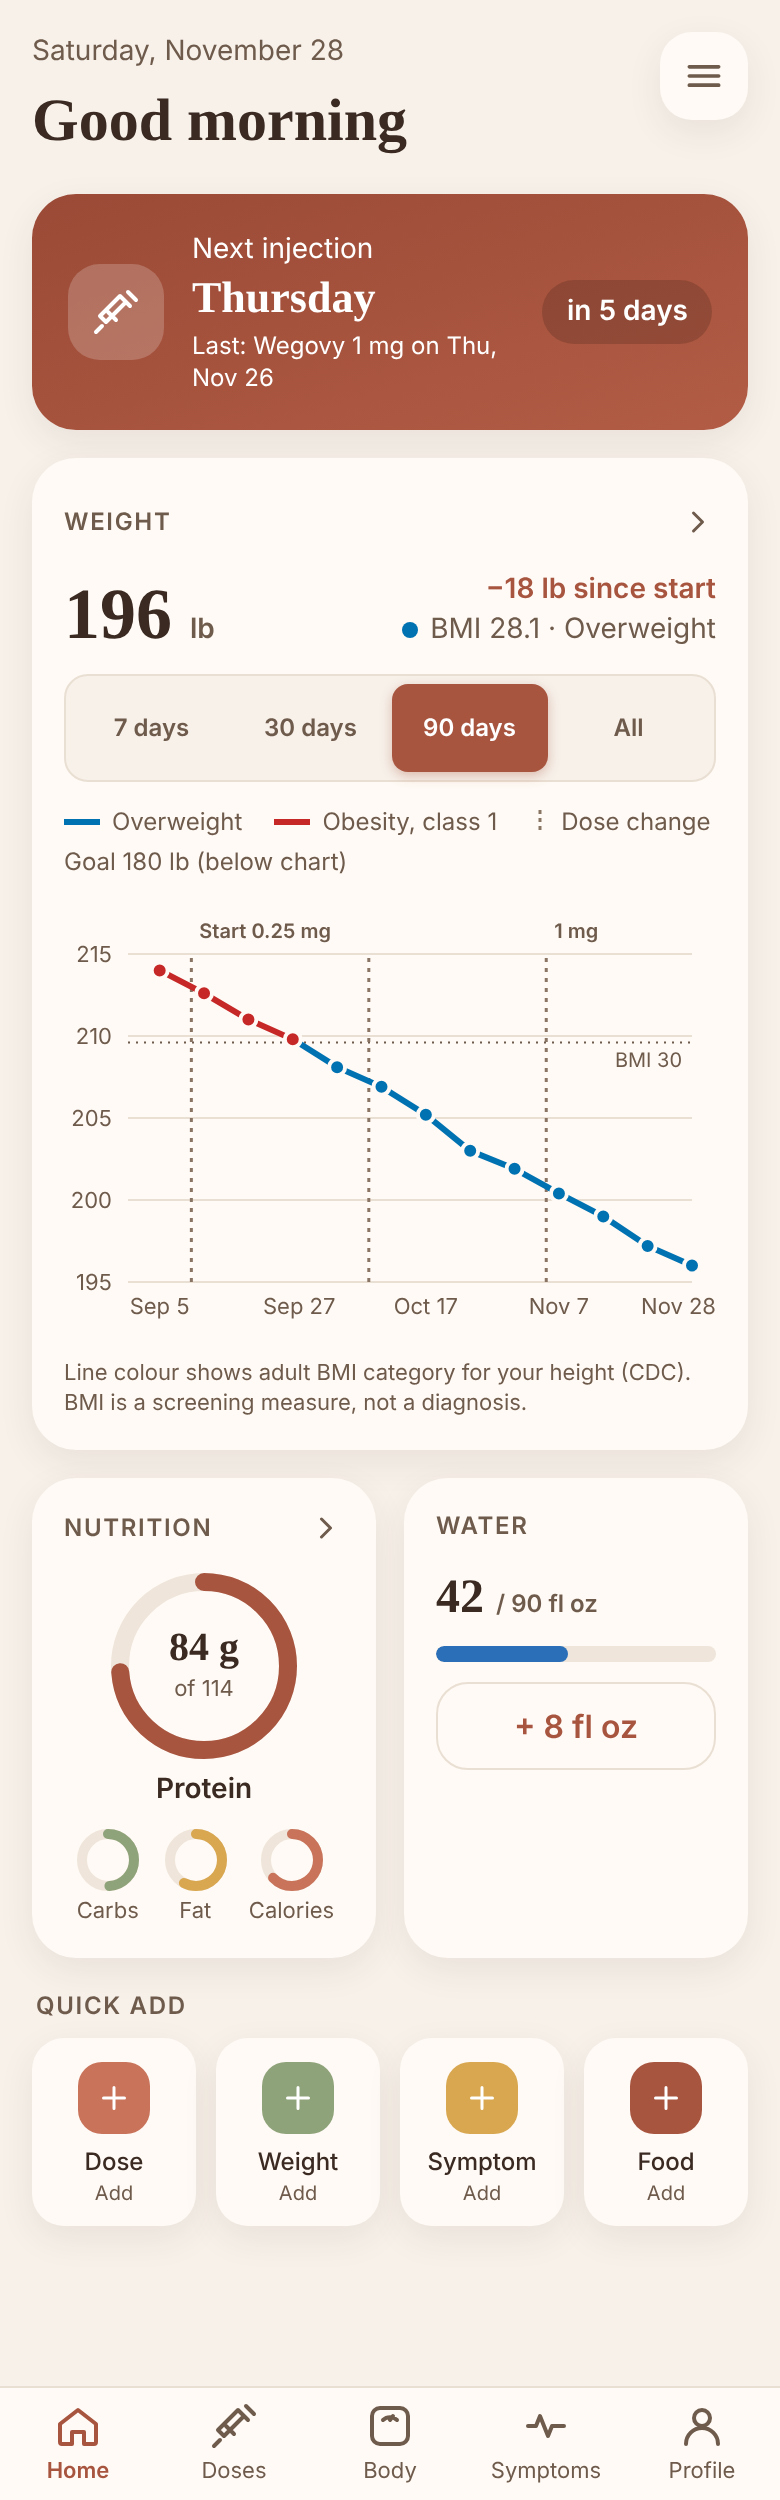
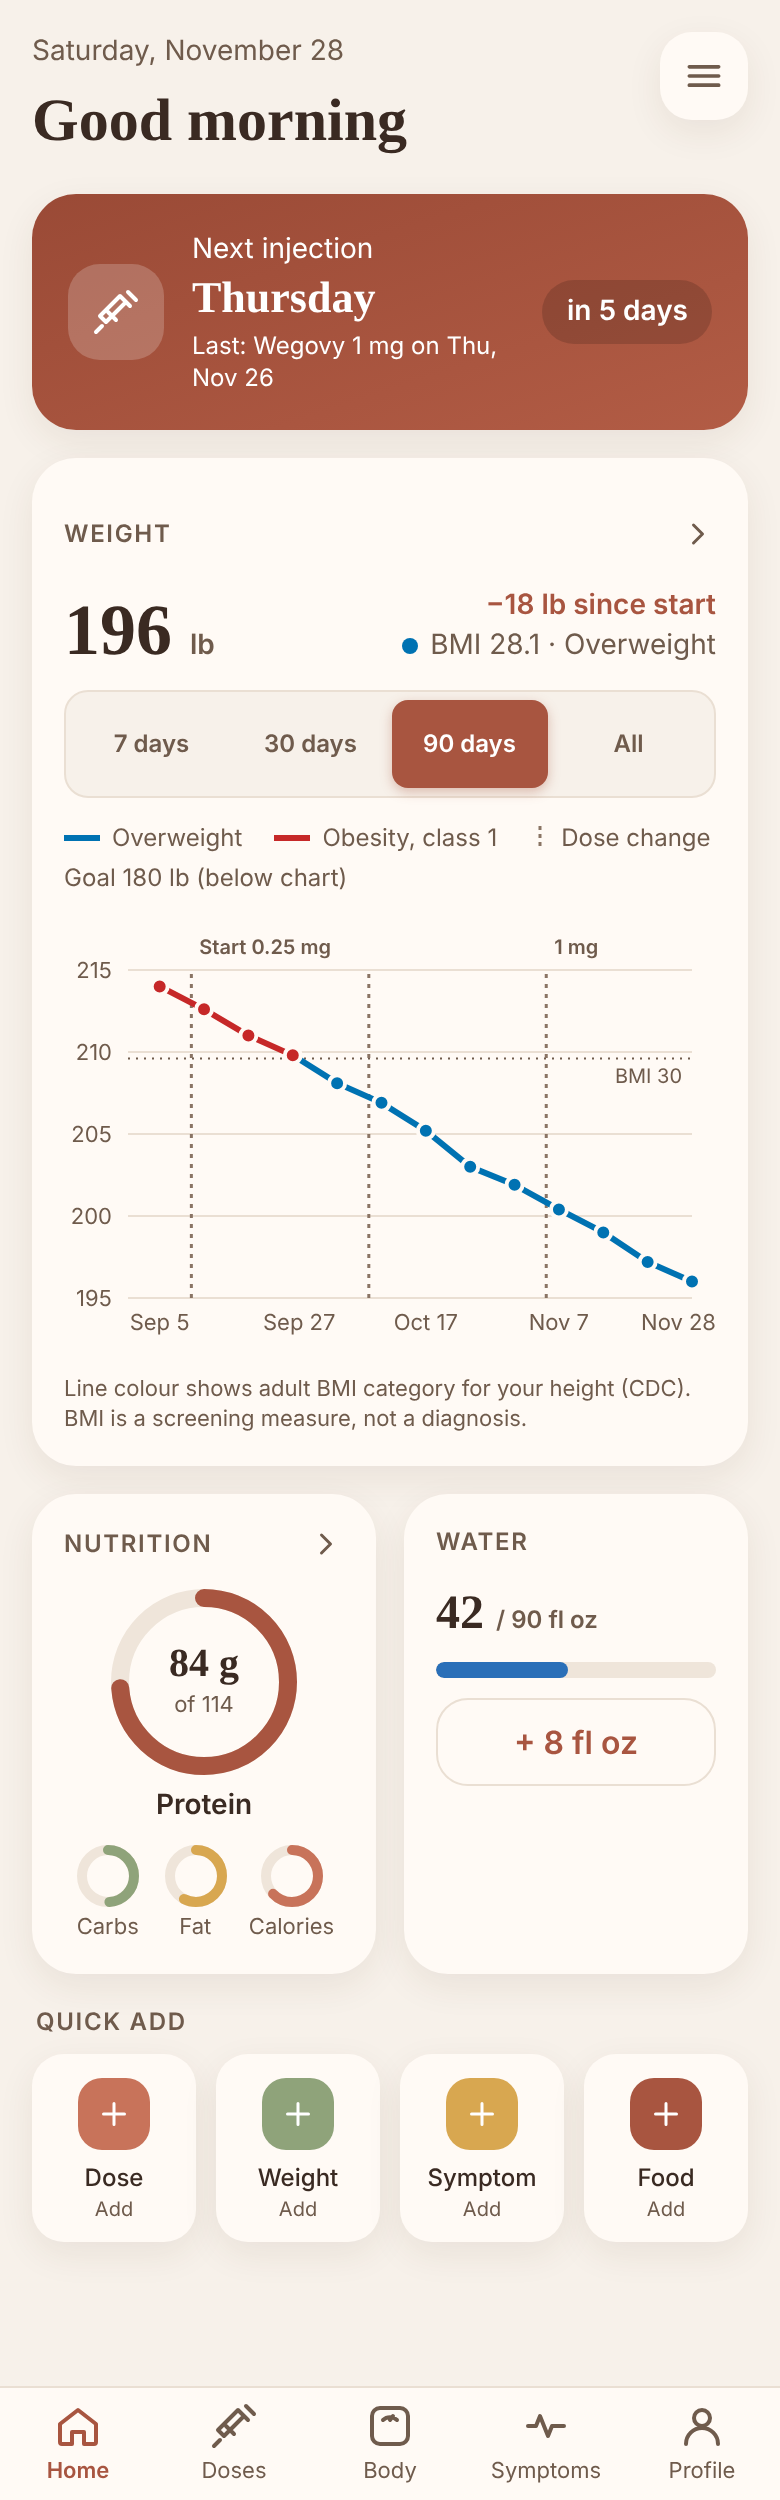
Workflow 15: code review fixes, tests, build notes
Claude-Session: https://claude.ai/code/session_01E8m8svjFKtLT3zDarJmxVH

diff --git a/src/components/TrendChart.tsx b/src/components/TrendChart.tsx
@@ -1,7 +1,7 @@
 import { CartesianGrid, ComposedChart, Line, ReferenceLine, ResponsiveContainer, Tooltip, XAxis, YAxis, type TooltipProps } from 'recharts';
 import { fromDayKey } from '../lib/dates';
 import { doseNotesByPoint, placeDoseMarks } from '../lib/range';
-import { BMI_BOUNDARIES, BMI_CATS, bmiCat, bmiCategory, plausibleBmi, type BmiCat } from '../lib/body';
+import { BMI_BOUNDARIES, BMI_CATS, bmiCat, bmiCategory, bmiColoursOn, type BmiCat } from '../lib/body';
 
 // Validated pair (dataviz validator, light surface #fffaf5): terracotta values, blue 7-day average.
 const VALUE = '#a85540';
@@ -43,6 +43,8 @@ interface Props {
 type Row = { t: number; date: string; value: number; avg?: number; dose?: string; cat?: BmiCat; cross?: boolean } & Partial<Record<BmiCat, number>>;
 
 const round1 = (v: number) => Math.round(v * 10) / 10;
+/** The two categories meeting at a boundary: just below it and from it upwards (categories use BMI rounded to 1 decimal). */
+const catsAt = (x: number): [BmiCat, BmiCat] => [bmiCat(x - 0.1), bmiCat(x)];
 /**
  * Splits the line by BMI category: each point fills its category's series, and where the line crosses a category
  * boundary between two points an extra (unmarked) point sits exactly on the boundary in both series, so the colour
@@ -58,12 +60,16 @@ export function bmiRows(rows: Row[], toBmi: (v: number) => number, valueAt: (b: 
     if (!n) return;
     const nb = toBmi(n.value);
     const crossings = BMI_BOUNDARIES.filter((x) => (round1(b) < x) !== (round1(nb) < x)).map((x) => {
-      const v = valueAt(x);
+      // Kept between the two weigh-ins: with rounding, a point at BMI 29.96 already counts as 30.0.
+      const v = Math.min(Math.max(valueAt(x), Math.min(r.value, n.value)), Math.max(r.value, n.value));
       const f = (v - r.value) / (n.value - r.value || 1);
       return { x, v, t: r.t + (n.t - r.t) * Math.min(1, Math.max(0, f)) };
     });
     crossings.sort((p, q) => p.t - q.t);
-    for (const c of crossings) out.push({ t: c.t, date: '', value: c.v, cross: true, [bmiCat(c.x - 0.1)]: c.v, [bmiCat(c.x)]: c.v });
+    for (const c of crossings) {
+      const [below, above] = catsAt(c.x);
+      out.push({ t: c.t, date: '', value: c.v, cross: true, [below]: c.v, [above]: c.v });
+    }
   });
   return out;
 }
@@ -79,7 +85,7 @@ function niceStep(span: number): number {
 export default function TrendChart({ points, seriesLabel, pointLabel, unit, avgLabel, goal, goalNearWithin = Infinity, window, doseMarks = [], photoDays, onPhoto, bmi }: Props) {
   const rows: Row[] = points.map((p) => ({ t: fromDayKey(p.date).getTime(), date: p.date, value: p.value, avg: p.avg }));
   // BMI colours need at least 2 points and believable BMIs (a typing slip leaves the plain line).
-  const bmiOn = !!bmi && rows.length >= 2 && rows.every((r) => plausibleBmi(bmi.toBmi(r.value)));
+  const bmiOn = bmiColoursOn(rows.map((r) => r.value), bmi?.toBmi);
   const data = rows.flatMap((r) => (r.avg === undefined ? [r.value] : [r.value, r.avg]));
   const goalNear = goal !== undefined && goal >= Math.min(...data) - goalNearWithin;
   const values = goalNear ? data.concat(goal) : data;
@@ -102,7 +108,7 @@ export default function TrendChart({ points, seriesLabel, pointLabel, unit, avgL
   const chartRows = bmiOn ? bmiRows(rows, bmi!.toBmi, bmi!.valueAt) : rows;
   const latestBmi = bmiOn ? bmi!.toBmi(latest.value) : undefined;
   const catsShown = bmiOn ? BMI_CATS.filter((c) => rows.some((r) => bmiCat(bmi!.toBmi(r.value)) === c.id)) : [];
-  // Classes 2 and 3 share a colour, so they share one key entry.
+  // Classes 2 and 3 share a colour, so they share one key entry ("Obesity, class 2 and above"); keep whichever is shown first.
   const keyEntries = catsShown.filter((c) => c.id !== 'ob3' || !catsShown.some((d) => d.id === 'ob2')).map((c) => ({ colour: c.colour, label: c.id === 'ob2' || c.id === 'ob3' ? 'Obesity, class 2 and above' : c.label }));
   const bmiLines = bmiOn ? [25, 30].map((b) => ({ b, y: round1(bmi!.valueAt(b)) })) : [];
   const avgColour = bmiOn ? AVERAGE_WITH_BMI : AVERAGE;
@@ -147,8 +153,8 @@ export default function TrendChart({ points, seriesLabel, pointLabel, unit, avgL
                 label={m.showLabel ? <DoseLabel text={m.label} nearRight={(m.t - domain[0]) / (domain[1] - domain[0] || 1) > 0.75} /> : undefined}
               />
             ))}
-            <Tooltip content={<ChartTooltip unit={unit} seriesLabel={pointLabel ?? seriesLabel} avgLabel={avgLabel} toBmi={bmiOn ? bmi!.toBmi : undefined} />} cursor={{ stroke: AXIS_TEXT, strokeWidth: 1 }} />
-            {avgLabel && !single && <Line dataKey="avg" stroke={avgColour} strokeWidth={bmiOn ? 2 : 2.5} strokeDasharray={bmiOn ? '4 3' : undefined} dot={false} activeDot={false} isAnimationActive={false} connectNulls />}
+            <Tooltip content={<ChartTooltip unit={unit} seriesLabel={pointLabel ?? seriesLabel} avgLabel={avgLabel} toBmi={bmiOn ? bmi!.toBmi : undefined} weighIns={rows} />} cursor={{ stroke: AXIS_TEXT, strokeWidth: 1 }} />
+            {avgLabel && !single && <Line dataKey="avg" stroke={avgColour} strokeWidth={bmiOn ? 2 : 2.5} strokeDasharray={bmiOn ? '4 3' : undefined} dot={false} activeDot={false} isAnimationActive={false} connectNulls={bmiOn} />}
             {bmiOn && BMI_CATS.filter((c) => chartRows.some((r) => r[c.id] !== undefined)).map((c) => (
               <Line
                 key={c.id}
@@ -157,7 +163,7 @@ export default function TrendChart({ points, seriesLabel, pointLabel, unit, avgL
                 strokeWidth={3}
                 connectNulls={false}
                 dot={(p: { cx?: number; cy?: number; payload?: Row }) => (p.payload?.cross || p.payload?.cat !== c.id ? <g key={`${c.id}-${p.payload?.t}`} /> : <ValueDot key={`${c.id}-${p.payload?.date}`} cx={p.cx} cy={p.cy} date={p.payload?.date} photoDays={photoDays} onPhoto={onPhoto} colour={c.colour} />)}
-                activeDot={false}
+                activeDot={(p: { cx?: number; cy?: number; payload?: Row }) => (p.payload?.cross || p.payload?.cat !== c.id || p.cx === undefined ? <g key={`a-${c.id}`} /> : <circle key={`a-${c.id}`} cx={p.cx} cy={p.cy} r={6} fill={c.colour} stroke="#fffaf5" strokeWidth={2} />)}
                 isAnimationActive={false}
               />
             ))}
@@ -216,10 +222,11 @@ function LegendItem({ label, children }: { label: string; children: React.ReactN
   return <span className="inline-flex items-center gap-1.5">{children}{label}</span>;
 }
 
-function ChartTooltip({ active, payload, unit, seriesLabel, avgLabel, toBmi }: TooltipProps<number, string> & { unit: string; seriesLabel: string; avgLabel?: string; toBmi?: (v: number) => number }) {
+function ChartTooltip({ active, payload, unit, seriesLabel, avgLabel, toBmi, weighIns }: TooltipProps<number, string> & { unit: string; seriesLabel: string; avgLabel?: string; toBmi?: (v: number) => number; weighIns: Row[] }) {
   if (!active || !payload?.length) return null;
-  const row = payload[0].payload as Row;
-  if (row.cross) return null; // a boundary point, not a weigh-in
+  let row = payload[0].payload as Row;
+  // A boundary point isn't a weigh-in: show the nearest weigh-in instead.
+  if (row.cross) row = weighIns.reduce((best, r) => (Math.abs(r.t - row.t) < Math.abs(best.t - row.t) ? r : best), weighIns[0]);
   const b = toBmi?.(row.value);
   return (
     <div className="rounded-xl border border-line bg-surface px-3 py-2 text-xs text-ink shadow-soft">

diff --git a/src/pages/Home.tsx b/src/pages/Home.tsx
@@ -19,7 +19,7 @@ import { dailyWeights, latestWeightKg } from '../lib/weight';
 import { weighInStatus } from '../lib/weighIn';
 import { effectiveTargets } from '../lib/profileTargets';
 import { displayWeight, round1, weightUnit } from '../lib/units';
-import { BMI_HINT, bmiCategory, bmiChart, bmiColourStatus, bmiCat, bmiColour, currentBmi } from '../lib/body';
+import { BMI_HINT, bmiCategory, bmiChart, bmiColourStatus, bmiCat, bmiColour, bmiColoursOn, currentBmi, plausibleBmi } from '../lib/body';
 import { doseChanges, doseMarkLabel, filterRange, rangeStart, RANGES, type Range } from '../lib/range';
 
 // The chart library loads only when the chart is drawn, so Home opens fast.
@@ -145,10 +145,12 @@ function WeightTile({ profile, weights, injections, bmiNow }: { profile: Profile
   const status = bmiColourStatus(profile);
   const points = filterRange(daily.map((d) => ({ date: d.date, value: displayWeight(d.kg, u) })), range);
   const from = rangeStart(range);
-  const showBmi = bmiNow !== undefined && status === 'ok';
+  const fns = status === 'ok' ? bmiChart(profile.heightCm!, u) : undefined;
+  // The coloured category shows only when the chart below shows colours too (with the CDC note).
+  const showBmi = bmiNow !== undefined && plausibleBmi(bmiNow) && bmiColoursOn(points.map((p) => p.value), fns?.toBmi);
   return (
     <section className="rounded-card bg-surface p-4 shadow-soft" aria-label="Weight">
-      <a href="#/weight?from=home" className="mb-2 flex min-h-8 items-center justify-between text-xs font-semibold uppercase tracking-[0.07em] text-muted">
+      <a href="#/weight?from=home" className="mb-1 flex min-h-11 items-center justify-between text-xs font-semibold uppercase tracking-[0.07em] text-muted">
         <span>Weight</span>
         <ChevronIcon width={18} height={18} />
       </a>
@@ -175,7 +177,7 @@ function WeightTile({ profile, weights, injections, bmiNow }: { profile: Profile
             {points.length === 0 ? (
               <p className="py-6 text-center text-sm text-muted">No weigh-ins in the last {range === '7d' ? '7' : range === '30d' ? '30' : '90'} days. Choose “All” to see earlier ones.</p>
             ) : (
-              <Suspense fallback={<div className="h-64" />}>
+              <Suspense fallback={<div className="min-h-[18.5rem]" />}>
                 <TrendChart
                   points={points}
                   seriesLabel="Weigh-ins"
@@ -185,7 +187,7 @@ function WeightTile({ profile, weights, injections, bmiNow }: { profile: Profile
                   goalNearWithin={u === 'imperial' ? 15 : 7}
                   window={from ? [from, dayKey(new Date())] : undefined}
                   doseMarks={doseChanges(injections).map((c) => ({ date: c.date, label: doseMarkLabel(c) }))}
-                  bmi={status === 'ok' ? bmiChart(profile.heightCm!, u) : undefined}
+                  bmi={fns}
                 />
               </Suspense>
             )}

diff --git a/src/lib/bmiChart.test.ts b/src/lib/bmiChart.test.ts
@@ -1,5 +1,5 @@
 import { describe, expect, it } from 'vitest';
-import { bmiCat, bmiCategory, bmiChart, bmiColourStatus, plausibleBmi } from './body';
+import { bmiCat, bmiCategory, bmiChart, bmiColoursOn, bmiColourStatus, plausibleBmi } from './body';
 import { bmiRows } from '../components/TrendChart';
 import { rangeStart } from './range';
 
@@ -45,6 +45,26 @@ describe('splitting the line at category boundaries', () => {
     expect(out.filter((r) => r.cross).map((r) => Math.round(r.value))).toEqual([210, 175]);
   });
   it('no crossing, no extra points', () => expect(bmiRows([row(0, 200), row(10, 196)], fns.toBmi, fns.valueAt)).toHaveLength(2));
+  it('rounding near a boundary never makes the line overshoot', () => {
+    const at = (b: number) => fns.valueAt(b);
+    for (const [a, z] of [[at(29.0), at(29.96)], [at(29.96), at(29.0)]]) {
+      const out = bmiRows([row(0, a), row(10, z)], fns.toBmi, fns.valueAt);
+      for (const r of out) expect(r.value).toBeGreaterThanOrEqual(Math.min(a, z) - 1e-9), expect(r.value).toBeLessThanOrEqual(Math.max(a, z) + 1e-9);
+    }
+  });
+  it('up then down across BMI 30 splits into red and blue pieces', () => {
+    const out = bmiRows([row(0, 206), row(10, 212), row(20, 206)], fns.toBmi, fns.valueAt);
+    expect(out.map((r) => (r.cross ? 'x' : r.cat))).toEqual(['over', 'x', 'ob1', 'x', 'over']);
+    expect(out[0].ob1).toBeUndefined(); // gaps keep the red line from joining the blue points
+    expect(out[4].ob1).toBeUndefined();
+  });
+  it('metric: BMI 30 at 1.78 m is 95.1 kg', () => expect(bmiChart(178, 'metric').valueAt(30)).toBeCloseTo(95.05, 1));
+  it('colours need 2 points and believable BMIs', () => {
+    expect(bmiColoursOn([200], fns.toBmi)).toBe(false);
+    expect(bmiColoursOn([200, 198], fns.toBmi)).toBe(true);
+    expect(bmiColoursOn([200, 20], fns.toBmi)).toBe(false); // a typing slip
+    expect(bmiColoursOn([200, 198], undefined)).toBe(false);
+  });
   it('the BMI shown matches the category: 24.96 counts as 25.0', () => expect(bmiCat(24.96)).toBe('over'));
 });
 

diff --git a/src/lib/body.ts b/src/lib/body.ts
@@ -49,6 +49,8 @@ export const BMI_HINT: Partial<Record<ReturnType<typeof bmiColourStatus>, string
 
 /** A BMI that can't be right (a typing slip): colours are left off rather than guessing. */
 export const plausibleBmi = (value: number) => value >= 10 && value <= 80;
+/** BMI colours need at least 2 points and believable BMIs. Used by the chart and by Home's label, so they always agree. */
+export const bmiColoursOn = (values: number[], toBmi?: (v: number) => number) => !!toBmi && values.length >= 2 && values.every((v) => plausibleBmi(toBmi(v)));
 
 /** BMI from the latest weigh-in (or the profile's starting weight if none yet). Undefined without height. */
 export function currentBmi(profile: Pick<Profile, 'heightCm' | 'startWeightKg'>, weights: Pick<WeightEntry, 'date' | 'weightKg'>[]): number | undefined {

diff --git a/docs/workflows/15-home-weight-first.md b/docs/workflows/15-home-weight-first.md
@@ -1,5 +1,5 @@
 # Workflow 15 — Home: weight chart first
-Status: Approved
+Status: Built
 Milestone: Post-plan add-on (not in PLAN.md §5). Uses only data already stored (height, birth year, weigh-ins, doses).
 
 ## Owner answers (2026-11-28)
@@ -146,3 +146,25 @@ The colours only describe. Nothing is advised.
 
 ## Approval
 - [x] Approved by owner — 2026-11-28 (answers above; 90 days default; exact text and range labels approved)
+
+## Build notes (2026-11-28)
+- **Built as approved.**
+  - **Home:** the full-width weight chart now comes first, with a 7 / 30 / 90 days / All choice. 90 is the default, and the choice is remembered on the phone (`steady.homeRange`). Nutrition is now a compact tile beside Water, with protein in a larger ring and small Carbs / Fat / Calories rings.
+  - **Line colours:** they follow the CDC adult BMI category, on Home and on the Body screen.
+  - **Sparkline:** removed.
+- **7-day range:** also added to the Body screen's range choice, which uses the same list.
+- **BMI colours on:** the 7-day average line on Body turns a dashed neutral brown, because blue now means Overweight.
+- **Code review fixes:**
+  - The Home BMI label shows the category only when the chart below shows colours, with the CDC note. Otherwise it shows a plain "BMI 28.1".
+  - Boundary points stay between the two weigh-ins, so the line never overshoots near a boundary.
+  - A tap near a boundary shows the nearest weigh-in.
+  - The tap highlight is kept for each colour.
+  - The average line no longer joins gaps on the plain chart.
+  - The tile header link meets the 44px tap target.
+  - The chart placeholder is the full chart height.
+  - Tests were added for these.
+- **Hints:** on Home, a missing height or birth year already shows "Set up your profile" in place of the tiles, so the BMI hints show on the Body screen.
+- **Checks:**
+  - 368 tests pass, and the build passes. The main bundle grew by about 1 KB, because the chart still loads only when drawn.
+  - The mocked iPhone runs had no errors and no CSP violations, and backup and restore still pass.
+  - Screenshots: `docs/screenshots/15-1-home-bmi.png` and `15-3-body-bmi.png`.
